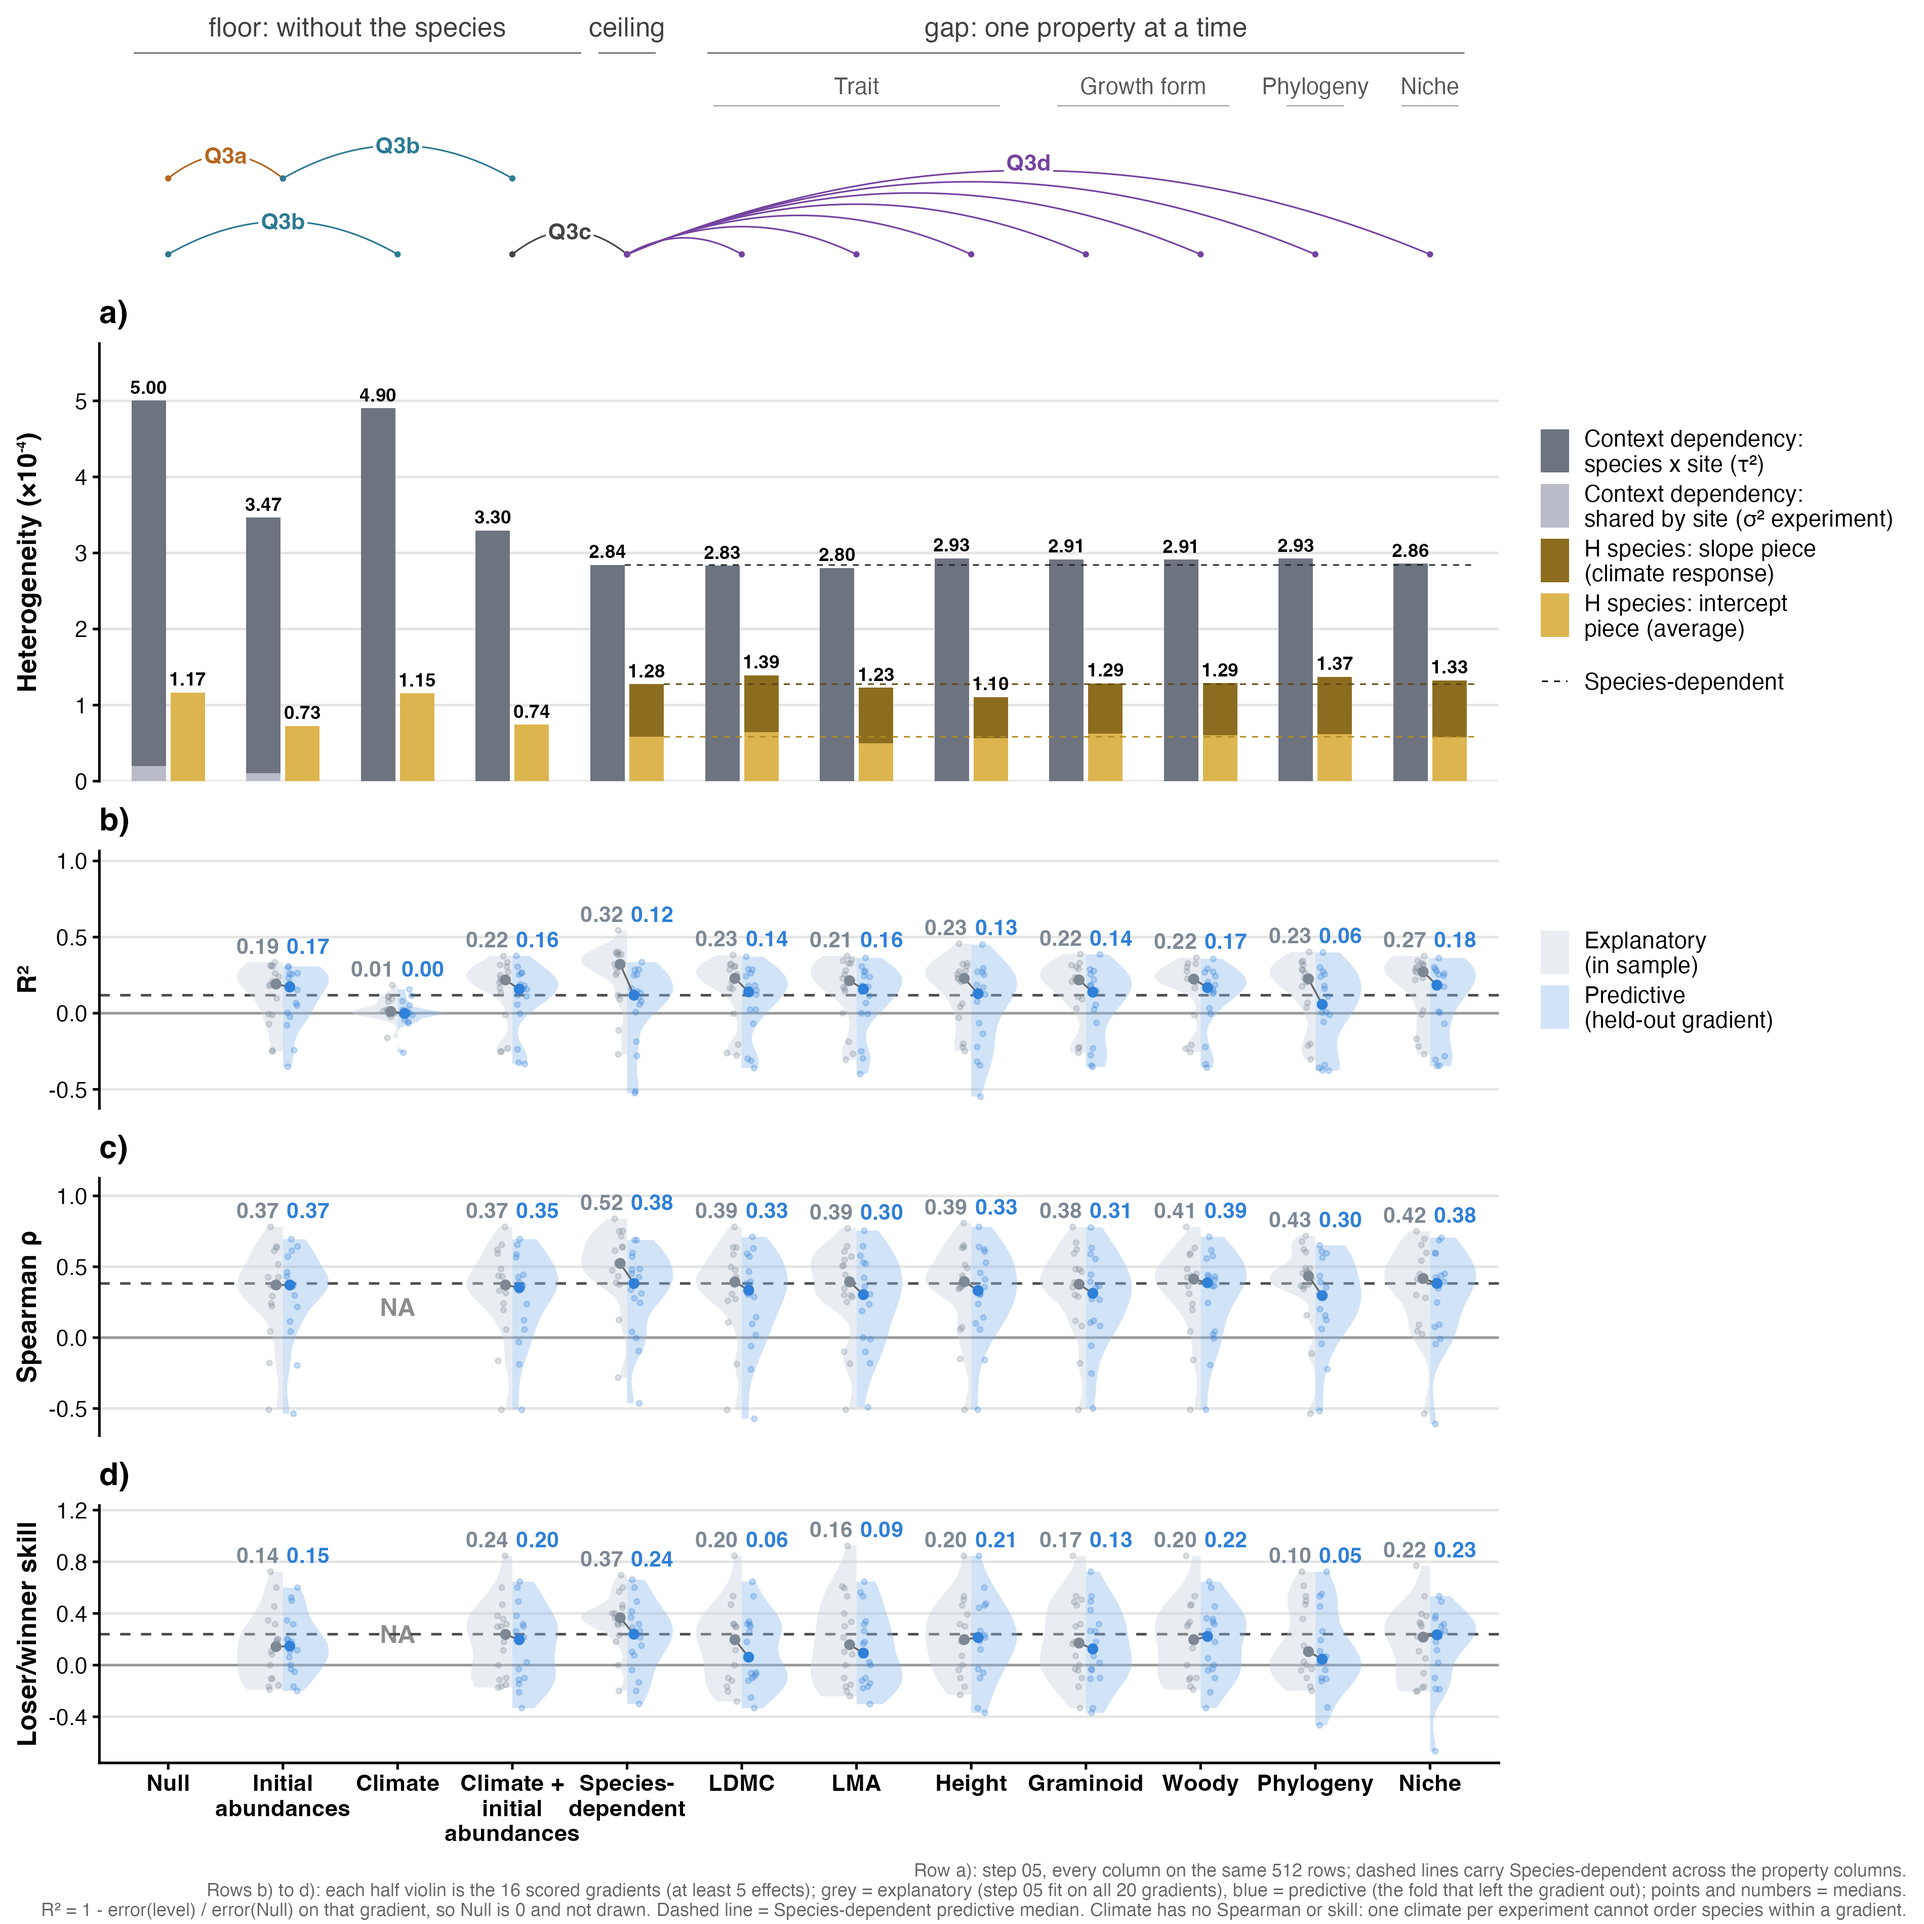
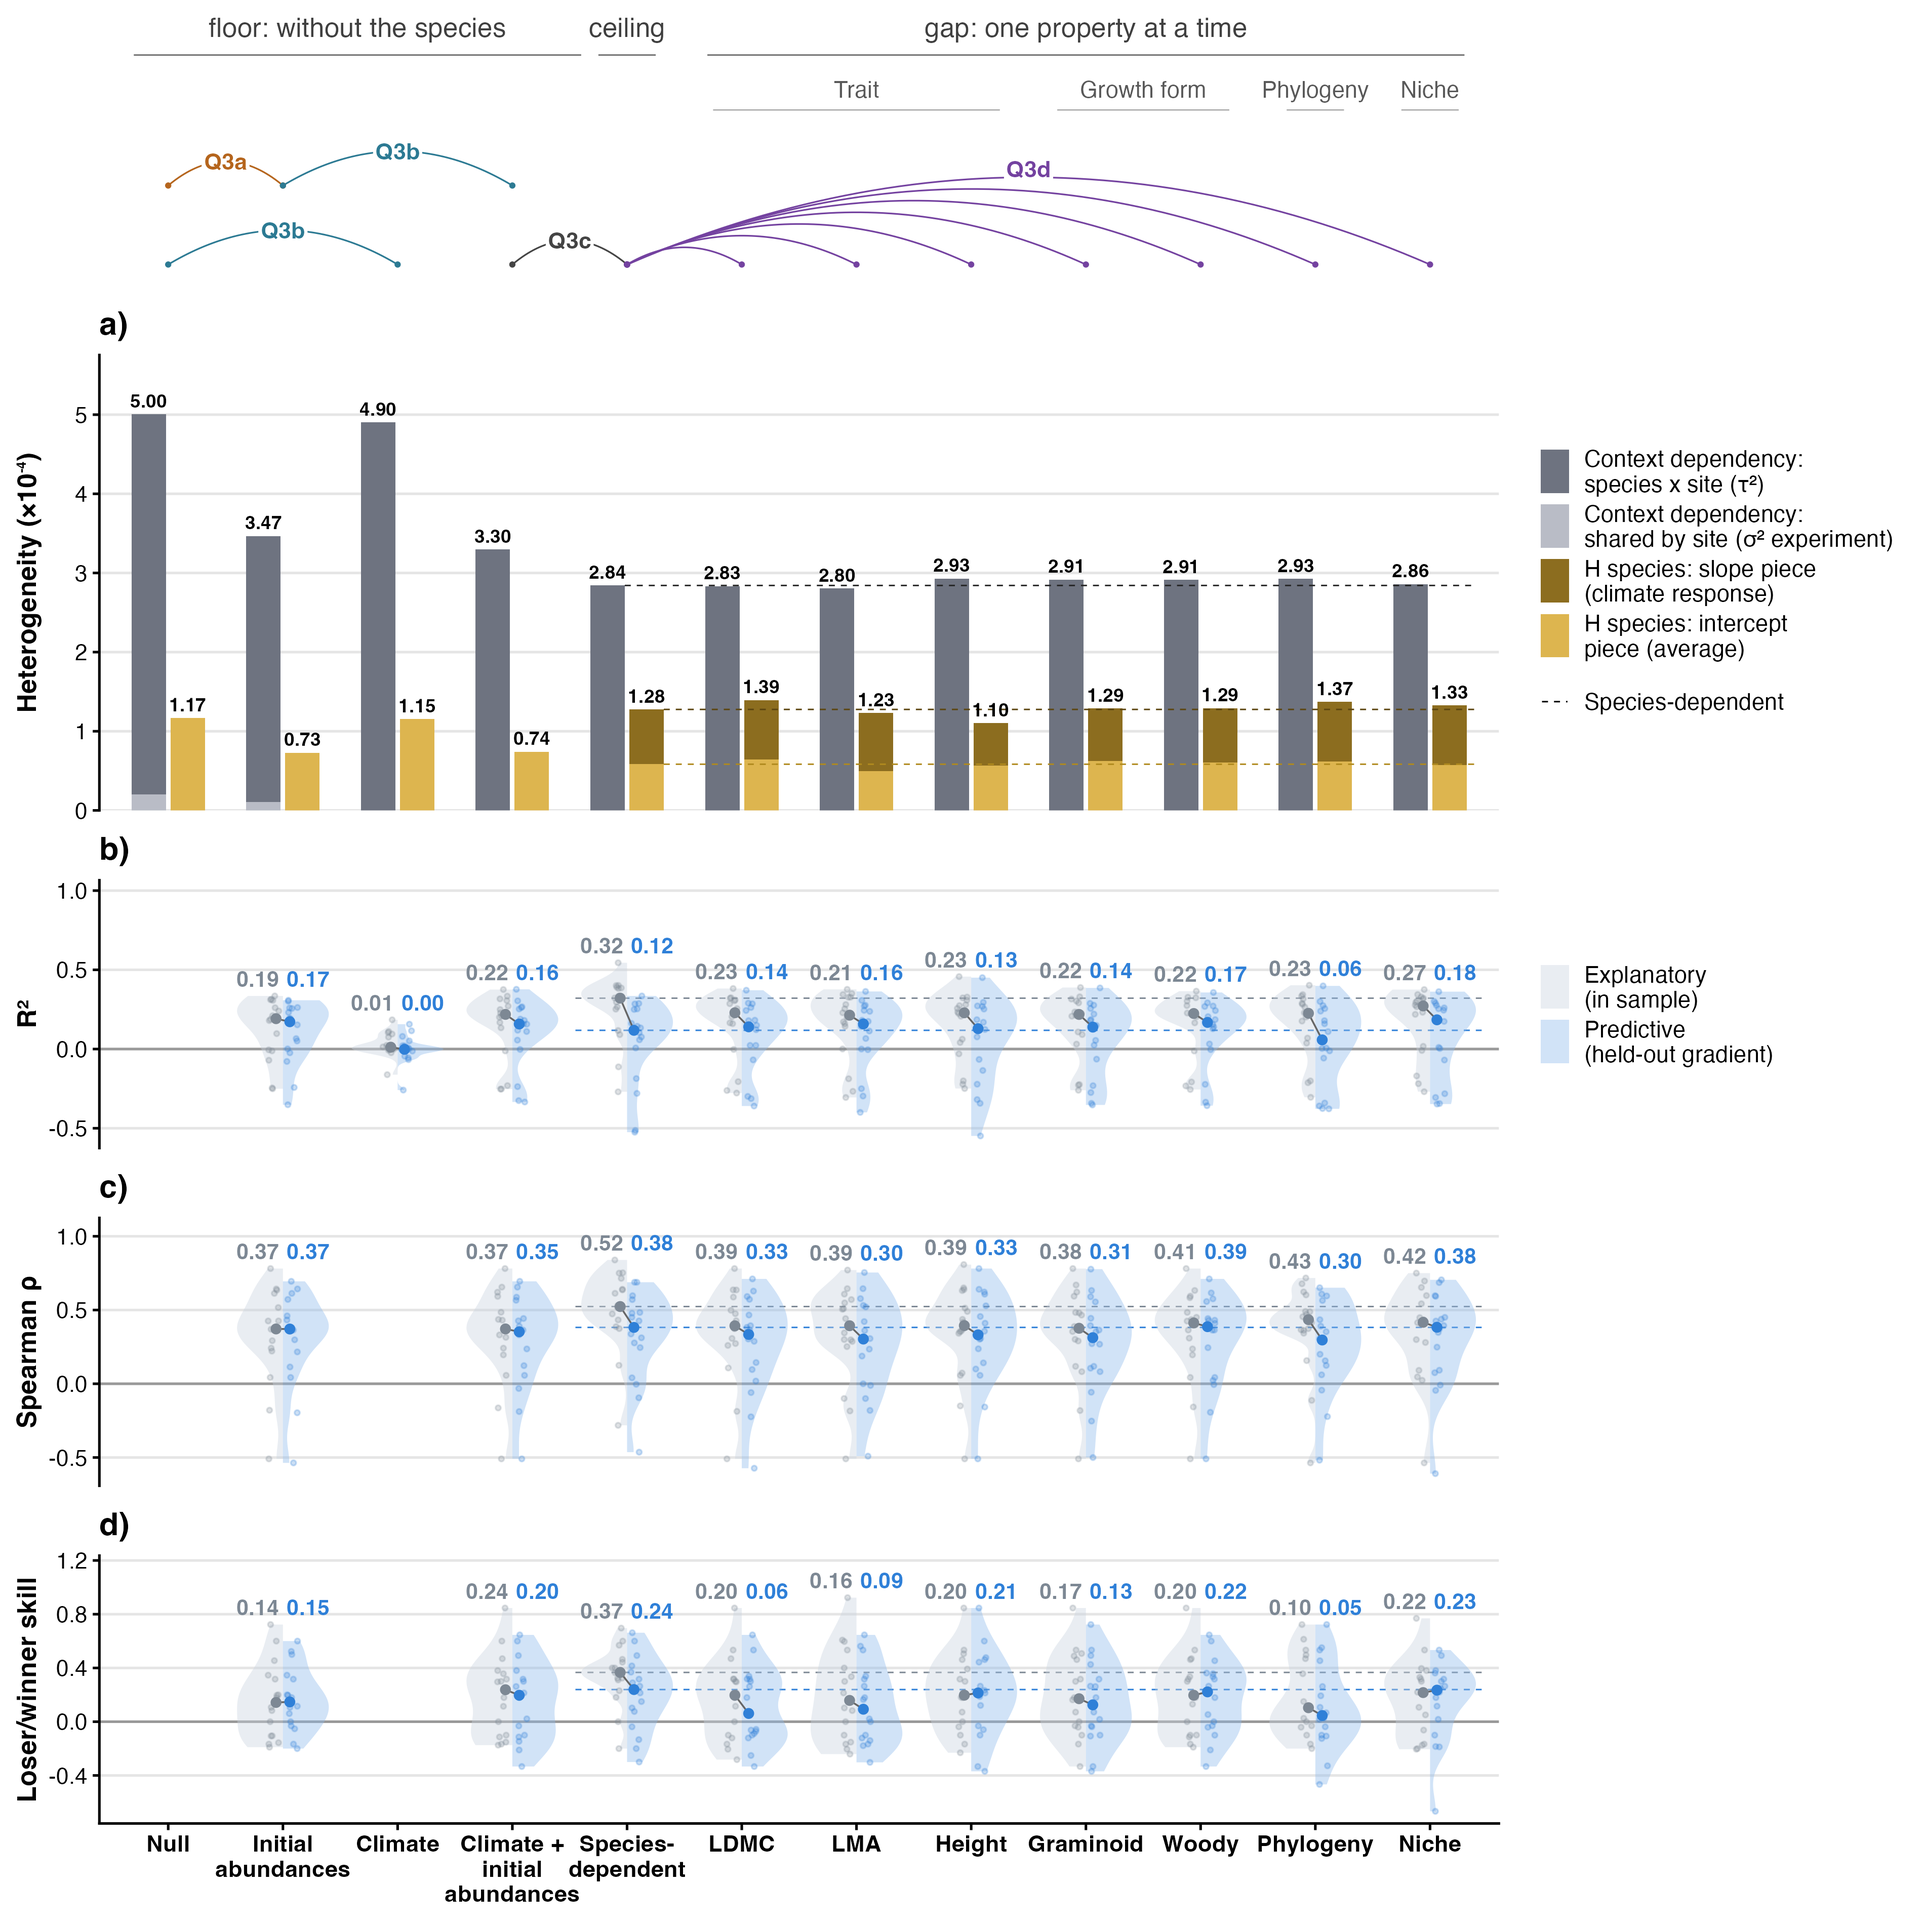
step 06: Fig 4 rows b to d, Species-dependent medians as grey and blue dashed lines from its column on, no NA labels, no caption on the figure (caption text in the report) (Bills, 2 Nov)

diff --git a/reports/06_ladder_predict.md b/reports/06_ladder_predict.md
@@ -130,6 +130,8 @@ Every held-out species had training data: each ladder species occurs in at least
 
 ![Fig 4, the ladder](../figures/diagnostics/06_fig4.png)
 
+Fig 4. Row a): step 05, every column on the same 512 rows; dashed lines carry Species-dependent across the property columns. Rows b) to d): each half violin is the 16 scored gradients (at least 5 effects); grey = explanatory (step 05 fit on all 20 gradients), blue = predictive (the fold that left the gradient out); points and numbers = medians. R² = 1 − error(level) / error(Null) on that gradient, so Null is 0 and not drawn. Dashed lines from the Species-dependent column on: its explanatory (grey) and predictive (blue) medians. Climate has no Spearman or skill: one climate per experiment cannot order species within a gradient.
+
 ![Fig S7, per-gradient view](../figures/diagnostics/06_figS7.png)
 
 ## Warnings captured
